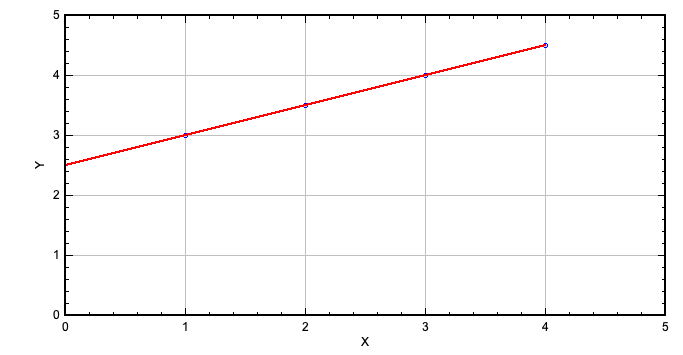
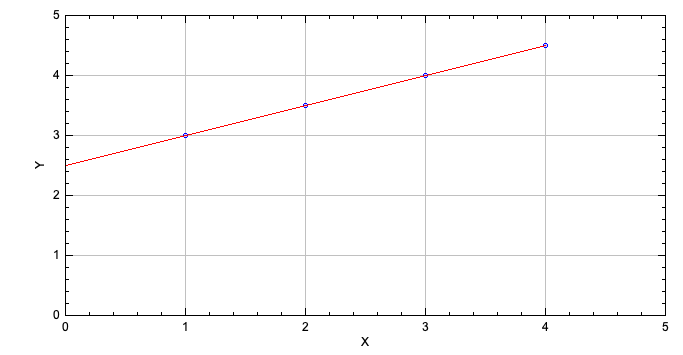
added an example on issue with point plotting

diff --git a/ImageJ/py/image_j_point_plotting_issue.py b/ImageJ/py/image_j_point_plotting_issue.py
@@ -1,0 +1,45 @@
+"""
+plotting_points.py
+
+A reproducible example to illustrate an issue with
+point size using ImageJ's plotting functions. Adapted
+for jython  from one of Norbert Vischer's examples here:
+https://imagej.nih.gov/ij/macros/examples/AdvancedPlots.txt
+
+The issue is the small zise of the points (circles)
+
+"""
+
+from ij import IJ
+from ij.gui import Plot
+from java.awt import Color
+import jarray
+import os
+
+
+# start clean
+IJ.run("Close All")
+
+# create example data arrays
+xa = [1, 2, 3, 4]
+ya = [3, 3.5, 4, 4.5]
+
+# convert to java array
+jxa = jarray.array(xa, 'd')
+jya = jarray.array(ya, 'd')
+
+# Create filled plot
+plt = Plot("Line plot", "X", "Y")
+plt.setLimits(0, 5, 0, 5)
+plt.setFrameSize(600, 300 )
+plt.setColor("blue", "#ccccff")
+
+# the circles are small. Can't figure out how to make 
+# them larger... These 2 calls are equivalent...
+# plt.addPoints(jxa,jya, Plot.CIRCLE)
+plt.add("circles", jxa, jya)
+plt.setColor(Color.RED)
+plt.setLineWidth(1)
+plt.drawLine(0.0, 2.5, 4.0, 4.5) 
+plt.setXYLabels("X", "Y")
+plt.show()

diff --git a/ImageJ/py/curve_fitter_example.py b/ImageJ/py/curve_fitter_example.py
@@ -66,10 +66,13 @@ plt.setLimits(left, right, bottom, top)
 plt.setFrameSize(600, 300 );
 plt.setColor("blue", "#ccccff")
 # the circles are small. Can't figure out how to make 
-# them larger...
+# them larger... These 2 calls are equivalent...
+# plt.addPoints(jxa,jya, Plot.CIRCLE)
 plt.add("circles", jxa, jya)
+# this is even harder to see...
+# plt.addPoints(jxa,jya, Plot.CROSS)
 plt.setColor(Color.RED)
-plt.setLineWidth(2)
+plt.setLineWidth(1)
 plt.drawLine(0.0, 2.5, 4.0, 4.5) 
 plt.setXYLabels("X", "Y")
 plt.show()
